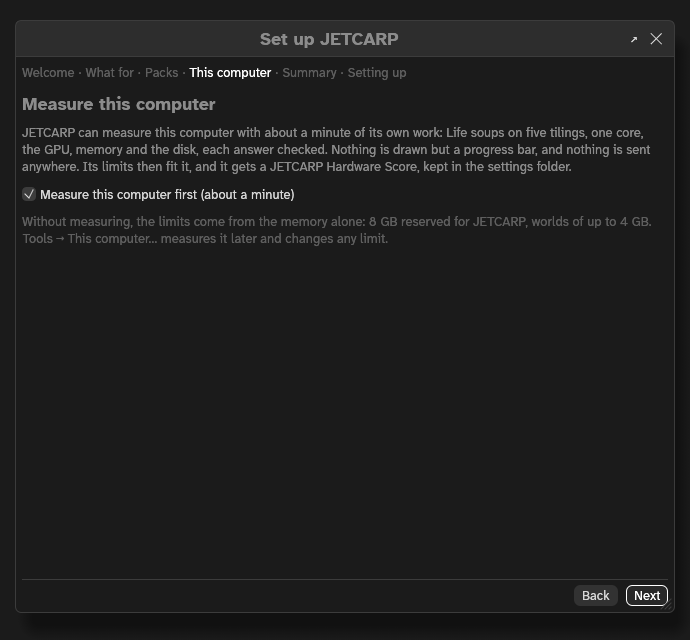
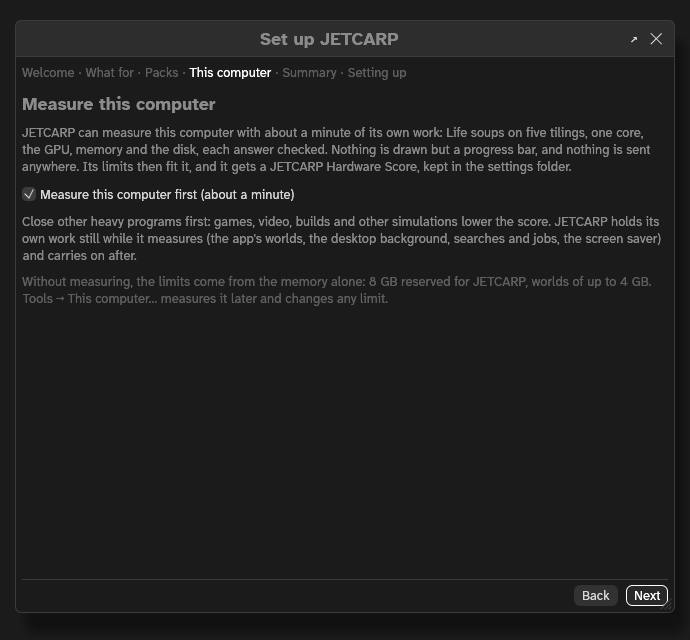
Book: This computer's window and setup's measure page drawn again (#301)
Both now show the request to close other heavy programs before
measuring; drawn headlessly from the example machine, as before.

diff --git a/crates/jetcarp-mcp/resources/docs/guides/this-computer.md b/crates/jetcarp-mcp/resources/docs/guides/this-computer.md
@@ -287,7 +287,7 @@ with no escape codes.
 
 ## Tools → This computer…
 
-<img src="../images/guides/this-computer-window.webp" alt="The This computer window: an example 8-core, 32 GB machine with a 12 GB GPU, not measured yet, what JETCARP's programs hold of its pool now, and its limits, with 12 GB reserved for the system as the person's own value" width="800">
+<img src="../images/guides/this-computer-window.webp" alt="The This computer window: an example 8-core, 32 GB machine with a 12 GB GPU, not measured yet, the request to close other heavy programs above Measure this computer, what JETCARP's programs hold of its pool now, and its limits, with 12 GB reserved for the system as the person's own value" width="800">
 
 The window shows the hardware, the score with its parts, the date of the last run and how it was
 taken, **Measure this computer** (then **Run again**) with the request to close other heavy programs

diff --git a/docs/src/guides/this-computer.md b/docs/src/guides/this-computer.md
@@ -287,7 +287,7 @@ with no escape codes.
 
 ## Tools → This computer…
 
-<img src="../images/guides/this-computer-window.webp" alt="The This computer window: an example 8-core, 32 GB machine with a 12 GB GPU, not measured yet, what JETCARP's programs hold of its pool now, and its limits, with 12 GB reserved for the system as the person's own value" width="800">
+<img src="../images/guides/this-computer-window.webp" alt="The This computer window: an example 8-core, 32 GB machine with a 12 GB GPU, not measured yet, the request to close other heavy programs above Measure this computer, what JETCARP's programs hold of its pool now, and its limits, with 12 GB reserved for the system as the person's own value" width="800">
 
 The window shows the hardware, the score with its parts, the date of the last run and how it was
 taken, **Measure this computer** (then **Run again**) with the request to close other heavy programs

diff --git a/crates/jetcarp-mcp/resources/docs/getting-started/first-run.md b/crates/jetcarp-mcp/resources/docs/getting-started/first-run.md
@@ -111,7 +111,7 @@ processor or GPU busy with something else), the progress page says so and waits 
 come from the computer's memory alone, and **Tools → This computer…** measures it whenever you
 like.
 
-<img src="../images/getting-started/setup-5b-measure.webp" alt="The This computer page: Measure this computer first, ticked, and what the limits are without measuring: 8 GB reserved for JETCARP, worlds of up to 4 GB" width="600">
+<img src="../images/getting-started/setup-5b-measure.webp" alt="The This computer page: Measure this computer first, ticked, the request to close other heavy programs first, and what the limits are without measuring: 8 GB reserved for JETCARP, worlds of up to 4 GB" width="600">
 
 **Summary.** What setup will do: the data folder, the packs, whether it measures the computer first,
 and the Quick Start build, which you can switch off (Explorer) or lengthen and shorten, from 1

diff --git a/docs/src/getting-started/first-run.md b/docs/src/getting-started/first-run.md
@@ -111,7 +111,7 @@ processor or GPU busy with something else), the progress page says so and waits 
 come from the computer's memory alone, and **Tools → This computer…** measures it whenever you
 like.
 
-<img src="../images/getting-started/setup-5b-measure.webp" alt="The This computer page: Measure this computer first, ticked, and what the limits are without measuring: 8 GB reserved for JETCARP, worlds of up to 4 GB" width="600">
+<img src="../images/getting-started/setup-5b-measure.webp" alt="The This computer page: Measure this computer first, ticked, the request to close other heavy programs first, and what the limits are without measuring: 8 GB reserved for JETCARP, worlds of up to 4 GB" width="600">
 
 **Summary.** What setup will do: the data folder, the packs, whether it measures the computer first,
 and the Quick Start build, which you can switch off (Explorer) or lengthen and shorten, from 1
